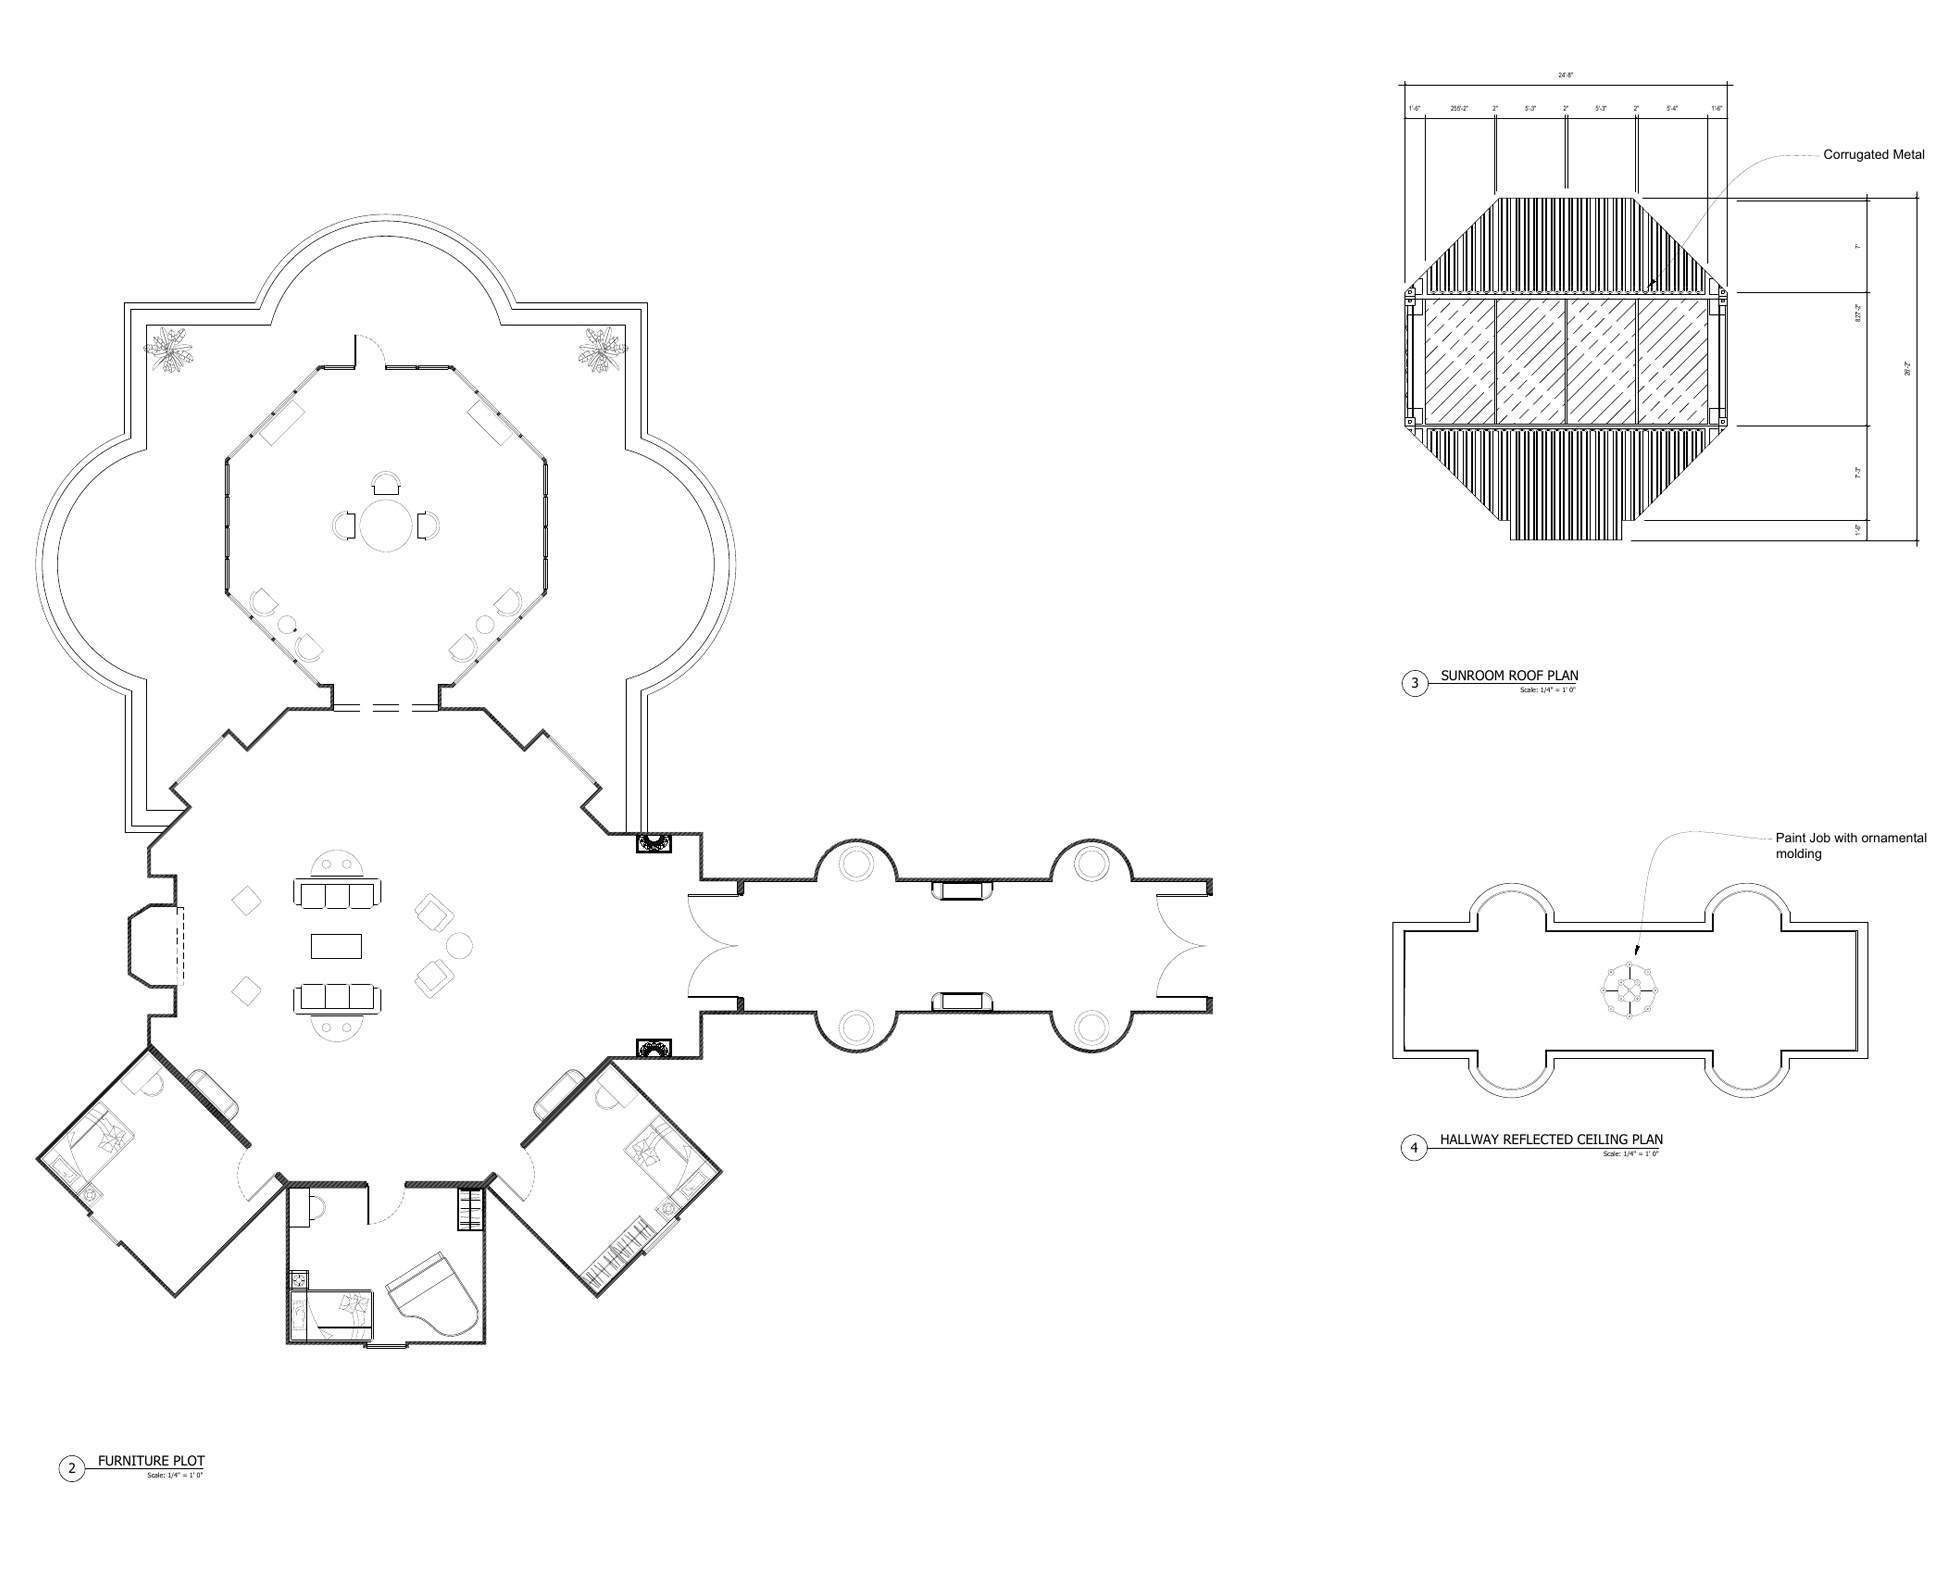
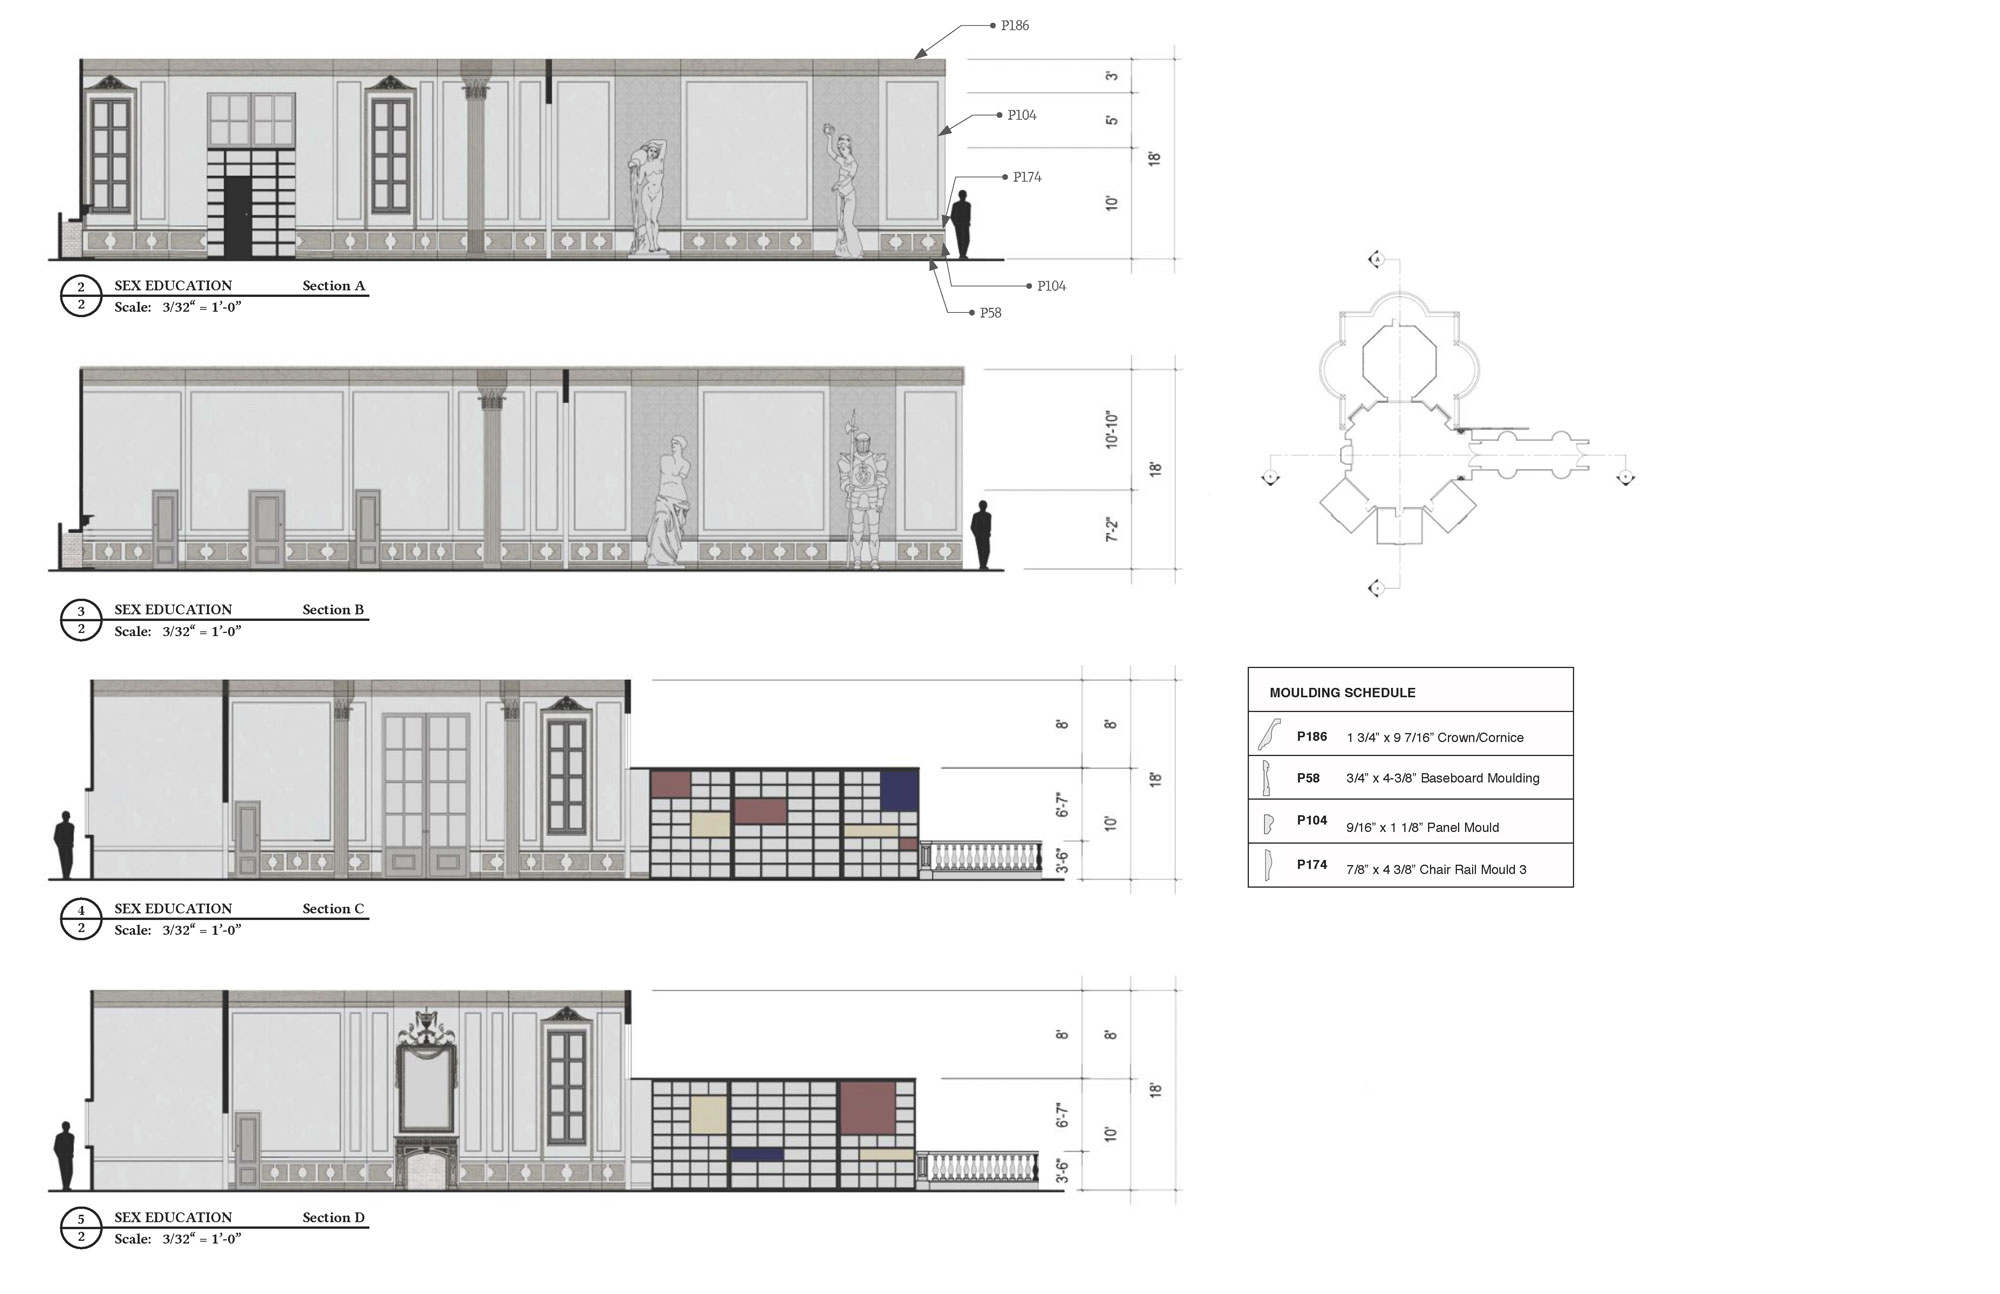
updated physicists

diff --git a/projects/tpbackup.html b/projects/tpbackup.html
@@ -93,6 +93,76 @@
         </div>
     </div>
 
+
+
+
+    <div class="container gallery-container">
+
+    
+        
+      <div class="tz-gallery">
+  
+          <div class="row">
+  
+              <div class="col-xl-6 col-md-6 mb-4">
+                  <div class="thumbnail">
+                      <div class="view overlay">
+                      <a class="lightbox" href="../photos/the-physicists/tppage1.jpg">
+                          <img class="img-fluid" src="../photos/the-physicists/tppage1.jpg">
+                       <div  class="mask flex-center rgba-white-strong"></div>
+                      </a>
+                      <div class="caption">
+                        <p style="font-family: robotoitalic; font-size: 75%;"> Stage Plan</p>
+                    </div>
+                      </div>
+                  </div>
+              </div>
+              <div class="col-xl-6 col-md-6 mb-4">
+                  <div class="thumbnail">
+                      <div class="view overlay">
+                      <a class="lightbox" href="../photos/the-physicists/tppage2.jpg">
+                          <img class="img-fluid" src="../photos/the-physicists/tppage2.jpg">
+                       <div  class="mask flex-center rgba-white-strong"></div>
+                      </a>
+                      <div class="caption">
+                        <p style="font-family: robotoitalic; font-size: 75%;"> Furniture Plot and Ceiling Plan</p>
+                    </div>
+                      </div>
+                  </div>
+              </div>
+              <div class="col-xl-6 col-md-6 mb-4">
+                  <div class="thumbnail">
+                      <div class="view overlay">
+                      <a class="lightbox" href="../photos/the-physicists/tppage3.jpg">
+                          <img class="img-fluid" src="../photos/the-physicists/tppage3.jpg">
+                       <div  class="mask flex-center rgba-white-strong"></div>
+                      </a>
+                      <div class="caption">
+                        <p style="font-family: robotoitalic; font-size: 75%;"> Extended Elevations</p>
+                    </div>
+
+                      </div>
+                  </div>
+              </div>
+              <div class="col-xl-6 col-md-6 mb-4">
+                  <div class="thumbnail">
+                      <div class="view overlay">
+                      <a class="lightbox" href="../photos/the-physicists/tppage4.jpg">
+                          <img class="img-fluid" src="../photos/the-physicists/tppage4.jpg">
+                       <div  class="mask flex-center rgba-white-strong"></div>
+                      </a>
+                      <div class="caption">
+                        <p style="font-family: robotoitalic; font-size: 75%;"> Sections</p>
+                    </div>
+
+                      </div>
+                  </div>
+              </div>
+          </div>
+  
+      </div>
+  
+  </div>
   
   <script src="https://cdnjs.cloudflare.com/ajax/libs/baguettebox.js/1.8.1/baguetteBox.min.js"></script>
   <script>
@@ -101,60 +171,14 @@
 
 
 
-     <div class="container">
-      <div class="row">
-        <div class="col-xl-12 col-md-12 mb-4">
-        <!-- Image 1-->
-        <div class="thumbnail">
-          <div class="view overlay">
-            <a class="lightbox" href="../photos/the-physicists/tppage1.jpg">
-              <img class="img-fluid" src="../photos/the-physicists/tppage1.jpg">
-              <div  class="mask flex-center rgba-white-strong"></div>
-            </a>
-          <div class="caption">
-          <p style="font-family: robotoitalic; font-size: 75%;"> Floor Plan, Details List and Materials Board</p>
-        </div>
-     </div>
-    </div>
 
+          
     <div class="container">
       <div class="row">
         <div class="col-xl-12 col-md-12 mb-4">
-        <!-- Image 2-->
-        <div class="thumbnail">
-          <div class="view overlay">
-            <a class="lightbox" href="../photos/the-physicists/tppage2.jpg">
-              <img class="img-fluid" src="../photos/the-physicists/tppage2.jpg">
-              <div  class="mask flex-center rgba-white-strong"></div>
-            </a>
-          <div class="caption">
-          <p style="font-family: robotoitalic; font-size: 75%;"> Painted Sections and Moulding Schedule</p>
-        </div>
-     </div>
-    </div>
-
-    <div class="container">
-      <div class="row">
-        <div class="col-xl-12 col-md-12 mb-4">
-        <!-- Image 3-->
-        <div class="thumbnail">
-          <div class="view overlay">
-            <a class="lightbox" href="../photos/the-physicists/tppage3.jpg">
-              <img class="img-fluid" src="../photos/the-physicists/tppage3.jpg">
-              <div  class="mask flex-center rgba-white-strong"></div>
-            </a>
-          <div class="caption">
-          <p style="font-family: robotoitalic; font-size: 75%;"> Physical Model and Fireplace Detail</p>
-        </div>
-     </div>
-    </div>
-
-    <div class="container">
-      <div class="row">
-        <div class="col-xl-12 col-md-12 mb-4">
-        <!-- Image 4-->
+        <!-- Image 5-->
               <img src="../photos/the-physicists/tprenderone.jpg" class="img-fluid " alt="smaple image">
-              <p style="font-family: robotoitalic; font-size: 75%;"><br> Drawing Room Digital Sketch </p>
+              <p style="font-family: robotoitalic; font-size: 75%;"><br> Hallway Digital Sketch </p>
         </div>
      </div>
     </div>
@@ -162,7 +186,7 @@
     <div class="container" style="padding-top: 1.5rem;">
       <div class="row">
         <div class="col-xl-12 col-md-12 mb-4">
-        <!-- Image 5 -->
+        <!-- Image 6 -->
               <img src="../photos/the-physicists/tprendertwo.jpg" class="img-fluid " alt="smaple image">
               <p style="font-family: robotoitalic; font-size: 75%;"><br> Sunroom Digital Sketch </p>
         </div>
